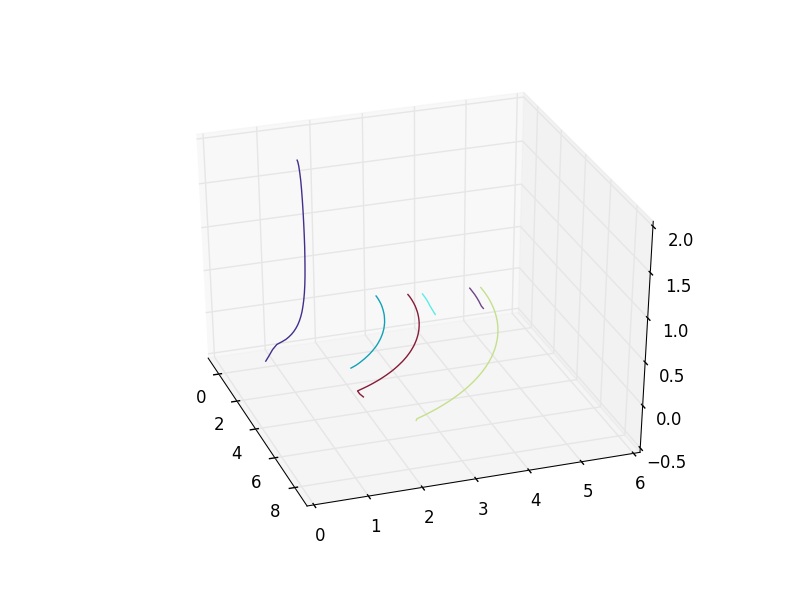
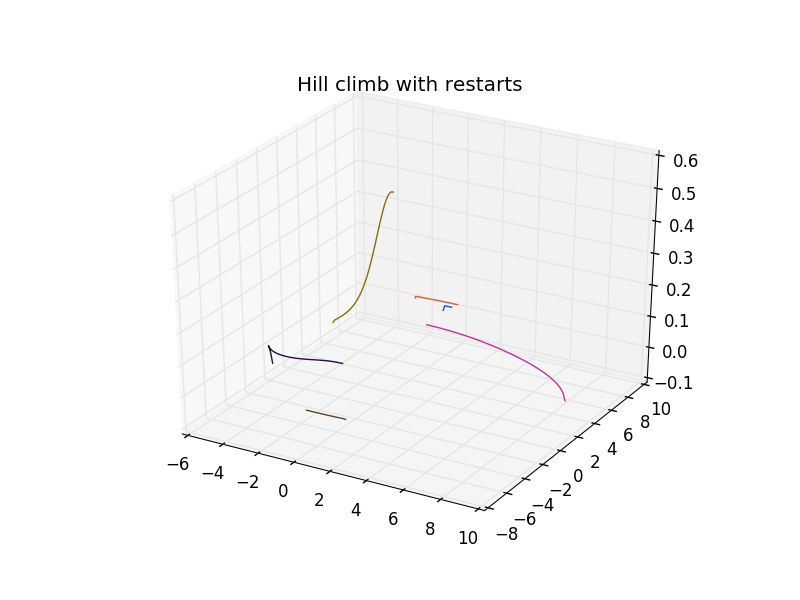
Fix bugs with implementation, add comments and typings

diff --git a/proj2/Optimization.py b/proj2/Optimization.py
@@ -6,16 +6,9 @@ ID: JZ28610
 
 Holds all the different optimization functions
 """
-from typing import Callable, Dict
-from enum import Enum
+from typing import Callable, Dict, Tuple, List
 from random import uniform, randint
 import math
-
-
-class Direction(Enum):
-    left = -1
-    equal = 0
-    right = 1
 
 
 class Optimization:
@@ -26,43 +19,18 @@ class Optimization:
         :param step_size
         :return:
         """
-        return {'x': uniform(0, 1/step_size), 'y': uniform(0, 1/step_size)}
+        return {'x': uniform(-1/step_size, 1/step_size), 'y': uniform(-1/step_size, 1/step_size)}
 
     @staticmethod
-    def get_direction(left: float, current: float, right: float) -> Direction:
+    def calculate_func_at_degree(func: Callable[[float, float], float], step_size:
+                float, x: float, y: float, deg: int) -> Tuple[float, float, float]:
         """
-        Get direction for basic hill climbing
-        :param left: left value
-        :param current: current value
-        :param right: right value
-        :return: Direction to go
-        """
-        # Right greater than current
-        if right > current:
-            # Is right greater than left
-            if right > left:
-                # Confirmed right is highest
-                return Direction.right
-
-        # Knowing right is less than current or right is less than left
-
-        # Is left greater than current?
-        if left > current:
-            # Found the direction
-            return Direction.right
-
-        # Found max
-        return None
-
-    @staticmethod
-    def calculate_func_at_degree(func: Callable[[float, float], float], step_size: float, x: float, y: float, deg: int) -> float:
-        """
-
-        :param func:
-        :param step_size:
+        Calculate the next value given center, radius, and degree
+        :param func: function that has a value
+        :param step_size: radius
         :param x:
         :param y:
-        :param deg:
+        :param deg: degree location
         :return:
         """
         rad = math.radians(deg)
@@ -71,20 +39,22 @@ class Optimization:
         return local_x, local_y, func(local_x, local_y)
 
     @staticmethod
-    def get_highest(func: Callable[[float, float], float], step_size: float, x: float, y: float, divisions: int = 1):
+    def get_highest(func: Callable[[float, float], float], step_size: float, x: float,
+                    y: float, divisions: int = 1) -> Tuple[float, float, float]:
         """
-
-        :param func:
-        :param step_size:
-        :param x:
-        :param y:
-        :param divisions:
+        Get highest value looking around the center step_size away (360 degrees default)
+        :param func: Function to determine value
+        :param step_size: distance away
+        :param x: center-x
+        :param y: center-y
+        :param divisions: How many divisions of the circle
         :return:
         """
         highest = func(x, y)
         max_x = x
         max_y = y
 
+        # For entire range 0 - 360
         for deg in range(math.ceil(360/divisions)):
             local_x, local_y, curr = Optimization.calculate_func_at_degree(func, step_size, x, y, deg)
             if curr >= highest:
@@ -92,28 +62,33 @@ class Optimization:
                 max_x = local_x
                 max_y = local_y
 
+        # If max_x or max_y didn't change we didn't move
         if max_x == x and max_y == y:
             return None
 
+        # Return new x, y, and resulting value
         return max_x, max_y, highest
 
     @staticmethod
-    def color(r: int = None, g: int = None, b: int = None) -> str:
+    def color(r: int = None, g: int = None, b: int = None) -> Tuple[int, int, int]:
         """
-
-        :param r:
-        :param g:
-        :param b:
-        :return:
+        Randomly generate a rgb color of values not present
+        :param r: red
+        :param g: green
+        :param b: blue
+        :return: tuple of three colors
         """
         r = r if r else randint(0, 255)
         g = g if g else randint(0, 255)
         b = b if b else randint(0, 255)
 
-        return '#%02x%02x%02x' % (r, g, b)
+        #return '#%02x%02x%02x' % (r, g, b)
+
+        return r, g, b
 
     @staticmethod
-    def hill_climb(func: Callable[[float, float], float], step_size: float, start_x: float = None, start_y: float = None):
+    def hill_climb(func: Callable[[float, float], float], step_size: float,
+                   start_x: float = None, start_y: float = None) -> Tuple[float, dict]:
         """
         Generalize hill climb algorithm
         :param func: function to call
@@ -164,7 +139,8 @@ class Optimization:
 
 
     @staticmethod
-    def hill_climb_random_restart(func: Callable[[float, float], float], step_size: float, num_restarts: int):
+    def hill_climb_random_restart(func: Callable[[float, float], float], step_size: float,
+                                  num_restarts: int) -> Tuple[float, List[dict]]:
         """
         Hill climbing with random restarts
         :param func: function to call
@@ -218,7 +194,8 @@ class Optimization:
 
     # TODO: Make this work correctly
     @staticmethod
-    def simulated_annealing(func: Callable[[float, float], float], step_size: float, max_temp: float) -> float:
+    def simulated_annealing(func: Callable[[float, float], float], step_size: float,
+                            max_temp: float) -> Tuple[float, List[dict]]:
         """
         Simulated annealing
         :param func: function to call
@@ -239,10 +216,6 @@ class Optimization:
             x = coords.get('x', 0)
             y = coords.get('y', 0)
 
-            left = lambda: func(x-step_size, y-step_size)
-            current = lambda: func(x, y)
-            right = lambda: func(x+step_size, y+step_size)
-
             plotgraph.append({
                 'color': Optimization.color(),
                 'points': {
@@ -254,19 +227,19 @@ class Optimization:
 
             # while temp
             while temp > 0:
-                curr = current()
+                current = func(x, y)
                 plotgraph[len(plotgraph)-1]['points']['x'].append(x)
                 plotgraph[len(plotgraph)-1]['points']['y'].append(y)
-                plotgraph[len(plotgraph)-1]['points']['z'].append(curr)
+                plotgraph[len(plotgraph)-1]['points']['z'].append(current)
 
-                if curr > total_max:
-                    total_max = curr
+                if current > total_max:
+                    total_max = current
 
                 # Go in a random direction
                 local_x, local_y, nxt = Optimization.calculate_func_at_degree(func, step_size, x, y, randint(0, 360))
 
                 # get probability of both sides
-                probability = Optimization.annealing_probability(curr, nxt, temp)
+                probability = Optimization.annealing_probability(current, nxt, temp)
 
                 threshold = uniform(0, 1)
 
@@ -274,14 +247,8 @@ class Optimization:
                 if probability > threshold:
                     x = local_x
                     y = local_y
-                else:
-                    continue
 
                 # Decrement temperature
                 temp -= 0.1
-
-
-
-
 
         return total_max, plotgraph

diff --git a/proj2/driver.py b/proj2/driver.py
@@ -14,41 +14,107 @@ from Optimization import Optimization
 import math
 import matplotlib.pyplot as plt
 from mpl_toolkits.mplot3d import Axes3D
+from time import time
+from typing import Tuple, List
 
 
-def create_graph(plot):
-    points = []
+def color(tup: Tuple[int, int, int]) -> str:
+    """
+    Convert rgb tuple to hex
+    :param tup: (r,g,b)
+    :return:
+    """
+    return '#%02x%02x%02x' % (tup[0], tup[1], tup[2])
+
+
+def create_graph(plot: List[dict], title: str) -> None:
+    """
+    Create a 3D graph of plot data given
+    :param plot: expects dictionary {'color' :optional, 'points' :required}
+    :param title: Graph title
+    :return:
+    """
+    # Build 3D graph
     fig = plt.figure()
-    ax = fig.add_subplot(111, projection='3d')
-    for trial in plot:
+    ax = fig.add_subplot(111, projection='3d', title=title)
+    # For each plot iteration
+    for idx, trial in enumerate(plot):
+        # Pull out points to variable
         points = trial['points']
-        ax.plot_wireframe(X=points['x'],Y=points['y'],Z=points['z'], color=trial['color'])
+        # Add lines
+        ax.plot(points['x'], points['y'], points['z'], color=color(trial['color']))
 
     plt.show()
 
 
+def build_result(func):
+    """
+    Build the result set
+    :param func: function to get results from
+    :return: {'start', 'end', 'result', 'plot'}
+    """
+    results = dict()
+    results['start'] = time()
+
+    result = func()
+
+    results['end'] = time()
+    results['result'], results['plot'] = result
+
+    return results
+
+
 def main():
+    """
+    Main driver
+    :return:
+    """
     # Function to optimize
     def z(_x: float, _y: float) -> float:
-        # Step function
+        """
+        Function
+        :param _x: x parameter
+        :param _y: y parameter
+        :return:
+        """
+        # Example function given
         _r = math.sqrt(_x ** 2 + _y ** 2)
         return math.sin(_x ** 2 + (3 * _y ** 2)) / (0.1 + _r ** 2) + \
             (_x ** 2 + 5 * _y ** 2) * (math.exp(1 - _r ** 2) / 2)
 
-    #    print(Optimization.hill_climb(z, 0.1))
-    result, plot = Optimization.hill_climb(z, 0.1)
-    print(result)
+    step_size = 0.1
+    restarts = 5
+    max_temperature = 20
 
-    create_graph([{'color': '#000000', 'points': plot}])
+    results = dict(hill_climb={}, hill_climb_random={}, simulated_annealing={})
 
-    result, plot = Optimization.hill_climb_random_restart(z, 0.1, 5)
-    print(result)
+    # Run tests
+    print('Running hill climb...', end='')
+    results['hill_climb'] = build_result(lambda: Optimization.hill_climb(z, step_size))
+    print(' DONE')
 
-    create_graph(plot)
+    print('Running hill climb with restart...', end='')
+    results['hill_climb_random'] = build_result(lambda: Optimization.hill_climb_random_restart(z, step_size, restarts))
+    print(' DONE')
 
-    result, plot = Optimization.simulated_annealing(z, 0.1, 20)
-    print(result)
+    print('Running simulated annealing...', end='')
+    results['simulated_annealing'] = build_result(lambda: Optimization.simulated_annealing(z, step_size, max_temperature))
+    print(' DONE')
 
-    create_graph(plot)
+    # Create the graphs
+    create_graph([{'color': (0, 0, 0), 'points': results['hill_climb']['plot']}], 'Hill Climb')
+    create_graph(results['hill_climb_random']['plot'], 'Hill climb with restarts')
+    create_graph(results['simulated_annealing']['plot'], 'Simulated Annealing')
+
+    # Make variables smaller
+    hc = results['hill_climb']
+    hc_res = results['hill_climb_random']
+    sa = results['simulated_annealing']
+
+    # Print results
+    print('hill climbing', hc['result'], 'time: ', hc['end']-hc['start'])
+    print('hill climbing with restarts', hc_res['result'], 'time: ', hc_res['end']-hc_res['start'])
+    print('simulated annealing', sa['result'], 'time: ', sa['end']-sa['start'])
+
 
 main()
